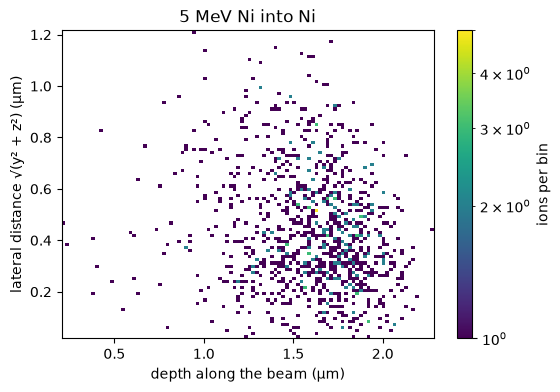
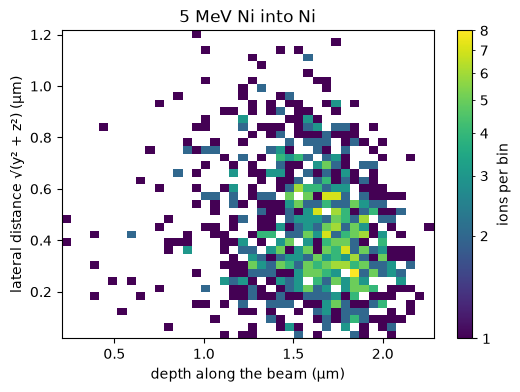
docs(gallery): titles on --list, --list reports broken entries, heatmap bins and legend

diff --git a/tests/test_gallery.py b/tests/test_gallery.py
@@ -1,6 +1,7 @@
 """Tests for the documentation gallery runner (docs/gallery/make.py)."""
 
 import importlib.util
+import types
 from pathlib import Path
 
 import pytest
@@ -41,8 +42,36 @@ def test_list_marks_the_srim_entries(capsys):
     lines = capsys.readouterr().out.splitlines()
     assert len(lines) == len(NAMES)
     for name, line in zip(NAMES, lines, strict=True):
+        module = make.load(name)
         assert line.startswith(name)
-        assert ("[SRIM]" in line) == make.load(name).NEEDS_SRIM
+        assert ("[SRIM]" in line) == module.NEEDS_SRIM
+        assert line.endswith(module.TITLE)
+
+
+def test_list_shows_the_title_of_a_srim_entry(tmp_path, monkeypatch, capsys):
+    fake = types.SimpleNamespace(
+        TITLE="Fake SRIM title", NEEDS_SRIM=True, OUTPUT="fake.png", make=None
+    )
+    real_load = make.load
+    monkeypatch.setattr(make, "entries", lambda: ["fake"])
+    monkeypatch.setattr(make, "load", lambda name: fake if name == "fake" else real_load(name))
+    assert make.main(["--list"]) == 0
+    assert capsys.readouterr().out.splitlines() == ["fake  [SRIM]  Fake SRIM title"]
+
+
+def test_list_reports_a_broken_entry_and_exits_1(monkeypatch, capsys):
+    real_load = make.load
+
+    def load(name):
+        if name == "heatmap":
+            raise SyntaxError("bad entry")
+        return real_load(name)
+
+    monkeypatch.setattr(make, "load", load)
+    assert make.main(["--list"]) == 1
+    out = capsys.readouterr().out
+    assert "FAILED heatmap: bad entry" in out
+    assert "depth_profiles  " in out
 
 
 @pytest.mark.parametrize("name", NO_SRIM_NAMES)

diff --git a/docs/gallery/make.py b/docs/gallery/make.py
@@ -48,20 +48,27 @@ def main(argv=None):
     parser = argparse.ArgumentParser(description="Build the documentation gallery pictures.")
     parser.add_argument("--list", action="store_true", help="list the entries and exit")
     parser.add_argument(
-        "--out", type=Path, default=DEFAULT_OUT, help="directory for the pictures (default: %(default)s)"
+        "--out",
+        type=Path,
+        default=DEFAULT_OUT,
+        help="directory for the pictures (default: %(default)s)",
     )
     parser.add_argument("names", nargs="*", metavar="name", help="entries to build (default: all)")
     args = parser.parse_args(argv)
 
     known = entries()
     if args.list:
+        failed = False
         for name in known:
-            module = load(name)
-            if module.NEEDS_SRIM:
-                print(f"{name}  [SRIM]")
-            else:
-                print(f"{name}  {module.TITLE}")
-        return 0
+            try:
+                module = load(name)
+            except Exception as exc:
+                print(f"FAILED {name}: {exc}")
+                failed = True
+                continue
+            tag = "  [SRIM]" if module.NEEDS_SRIM else ""
+            print(f"{name}{tag}  {module.TITLE}")
+        return 1 if failed else 0
 
     unknown = [name for name in args.names if name not in known]
     if unknown:

diff --git a/docs/gallery/heatmap.py b/docs/gallery/heatmap.py
@@ -5,10 +5,11 @@ from pathlib import Path
 import matplotlib.pyplot as plt
 import numpy as np
 from matplotlib.colors import LogNorm
+from matplotlib.ticker import FormatStrFormatter
 
 from srim.output import Range3D
 
-TITLE = "Where 1000 nickel ions stop in nickel (RANGE_3D.txt)"
+TITLE = "Where 5 MeV nickel ions stop in nickel (RANGE_3D.txt)"
 NEEDS_SRIM = False
 OUTPUT = "heatmap.png"
 
@@ -21,8 +22,10 @@ def make(outdir):
     lateral_um = np.hypot(df["y_A"], df["z_A"]) / 1e4
 
     fig, ax = plt.subplots(figsize=(6, 4), dpi=100)
-    _, _, _, image = ax.hist2d(depth_um, lateral_um, bins=100, norm=LogNorm())
-    fig.colorbar(image, ax=ax, label="ions per bin")
+    _, _, _, image = ax.hist2d(depth_um, lateral_um, bins=40, norm=LogNorm())
+    cbar = fig.colorbar(image, ax=ax, label="ions per bin")
+    cbar.ax.yaxis.set_major_formatter(FormatStrFormatter("%d"))
+    cbar.ax.yaxis.set_minor_formatter(FormatStrFormatter("%d"))
     ax.set_xlabel("depth along the beam (µm)")
     ax.set_ylabel("lateral distance √(y² + z²) (µm)")
     ax.set_title("5 MeV Ni into Ni")

diff --git a/docs/gallery/depth_profiles.py b/docs/gallery/depth_profiles.py
@@ -1,4 +1,4 @@
-"""Depth profiles of ionization and vacancies from a Kinchin-Pease style run."""
+"""Depth profiles of ionization and vacancies from a full cascade run (test_files/2)."""
 
 from pathlib import Path
 
@@ -6,7 +6,7 @@ import matplotlib.pyplot as plt
 
 from srim.output import Results
 
-TITLE = "Ionization, damage energy and vacancies against depth"
+TITLE = "Ionization and vacancies against depth"
 NEEDS_SRIM = False
 OUTPUT = "depth_profiles.png"
 
@@ -25,7 +25,7 @@ def make(outdir):
     left.set_xlabel("depth (nm)")
     left.set_ylabel("ionization (eV/Å/ion)")
     left.set_title("Ionization")
-    left.legend()
+    left.legend(loc="upper right")
 
     right.plot(vacancy["depth_A"] / 10, vacancy[vacancy_columns].sum(axis=1))
     right.set_xlabel("depth (nm)")
